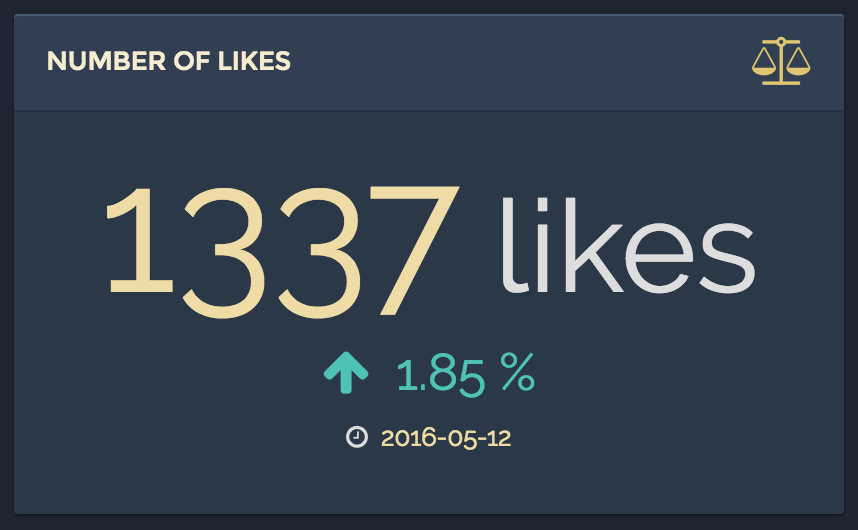
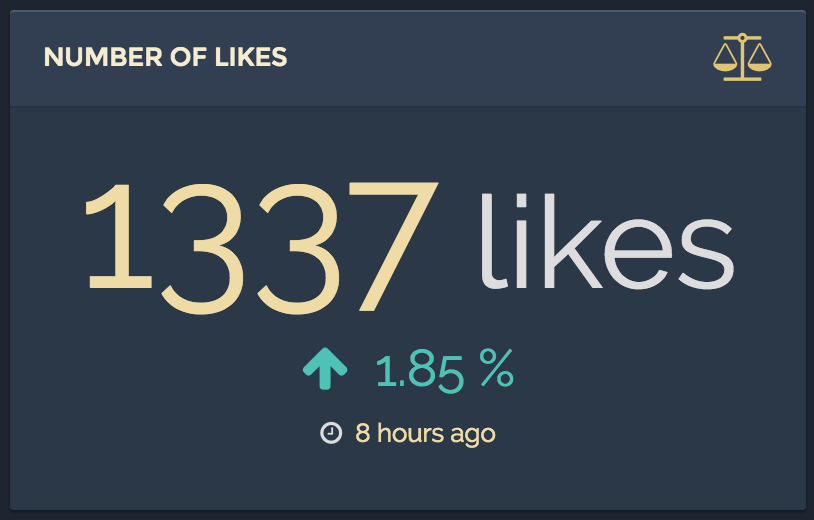
Show lastUpdated optionally in "from now" format. Bump minor version.

diff --git a/src/components/Value.jsx b/src/components/Value.jsx
@@ -33,8 +33,19 @@ class Value extends Component {
     render() {
         const state = this.state || {};
 
-        const { title, prefix, postfix } = this.props;
-        const { current, lastUpdated, changeRate } = state;
+        const {
+            title,
+            prefix,
+            postfix,
+            lastUpdatedFromNow = true,
+            lastUpdatedFormat = 'YYYY-MM-DDThh:mm:ssTZD'
+        } = this.props;
+
+        const {
+            current,
+            lastUpdated,
+            changeRate
+        } = state;
 
         const content = typeof current === 'undefined'
             ? <span />
@@ -51,8 +62,18 @@ class Value extends Component {
                             {postfix}
                         </span>
                     </span>
-                    {createElementIf(isDefined(changeRate), ChangeRate, { changeRate })}
-                    {createElementIf(isDefined(lastUpdated), LastUpdated, { lastUpdated})}
+                    {
+                        createElementIf(
+                            isDefined(changeRate),
+                            ChangeRate,
+                            { changeRate })
+                    }
+                    {
+                        createElementIf(
+                            isDefined(lastUpdated),
+                            LastUpdated,
+                            { lastUpdated, lastUpdatedFromNow, lastUpdatedFormat })
+                    }
                 </div>
             );
 

diff --git a/src/components/LastUpdated.jsx b/src/components/LastUpdated.jsx
@@ -1,14 +1,23 @@
 import React, { Component, PropTypes } from 'react';
+import moment from 'moment';
 
 class LastUpdated extends Component {
     render() {
-        const { lastUpdated } = this.props;
+        const {
+            lastUpdated,
+            lastUpdatedFromNow,
+            lastUpdatedFormat
+        } = this.props;
+
+        const lastUpdatedString = lastUpdatedFromNow
+            ? moment(lastUpdated, lastUpdatedFormat).fromNow()
+            : lastUpdated;
 
         return (
             <span className="value__last-updated-wrapper">
                 <i className="fa fa-clock-o value__icon" />
                 <span className="value__last-updated">
-                    {lastUpdated}
+                    {lastUpdatedString}
                 </span>
             </span>
         );

diff --git a/README.md b/README.md
@@ -36,12 +36,14 @@ No API configuration is needed.
 
 ### Parameters
 
-key              | required | description
------------------|----------|-------------------------------------------------------------------
-`url`            | yes      | *The URL to fetch the value*
-`title`          | yes      | *The widget title*
-`prefix`         | no       | *Prefix of the value*
-`postfix`        | no       | *Postfix of the value*
-`pathCurrent`    | no       | *The JSON path to the 'current' value
-`pathLastUpdated`| no       | *The JSON path to the 'lastUpdated' value
-`pathChangeRate` | no       | *The JSON path to the 'changeRate' value
+key                 | required | description
+--------------------|----------|-------------------------------------------------------------------
+`url`               | yes      | *The URL to fetch the value*
+`title`             | yes      | *The widget title*
+`prefix`            | no       | *Prefix of the value*
+`postfix`           | no       | *Postfix of the value*
+`lastUpdatedFormat` | no       | *Format of the 'lastUpdated' value (default 'lYYYY-MM-DDThh:mm:ssTZD')*
+`lastUpdatedFromNow`| no       | *Whether to display the 'lastUpdated' value from now (default true)*
+`pathCurrent`       | no       | *The JSON path to the 'current' value*
+`pathLastUpdated`   | no       | *The JSON path to the 'lastUpdated' value*
+`pathChangeRate`    | no       | *The JSON path to the 'changeRate' value*
